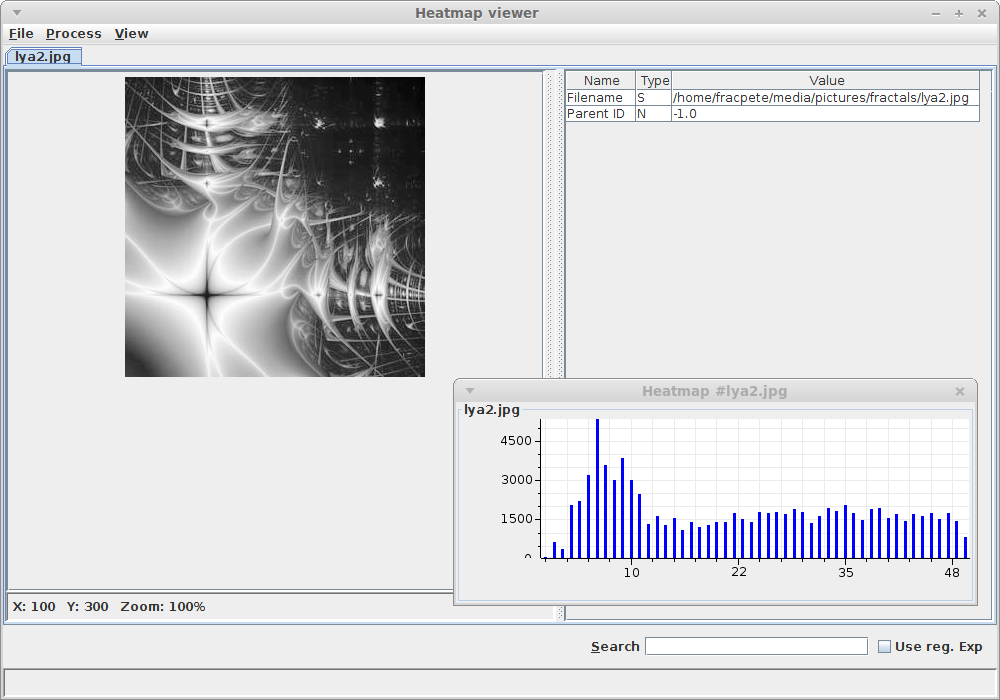
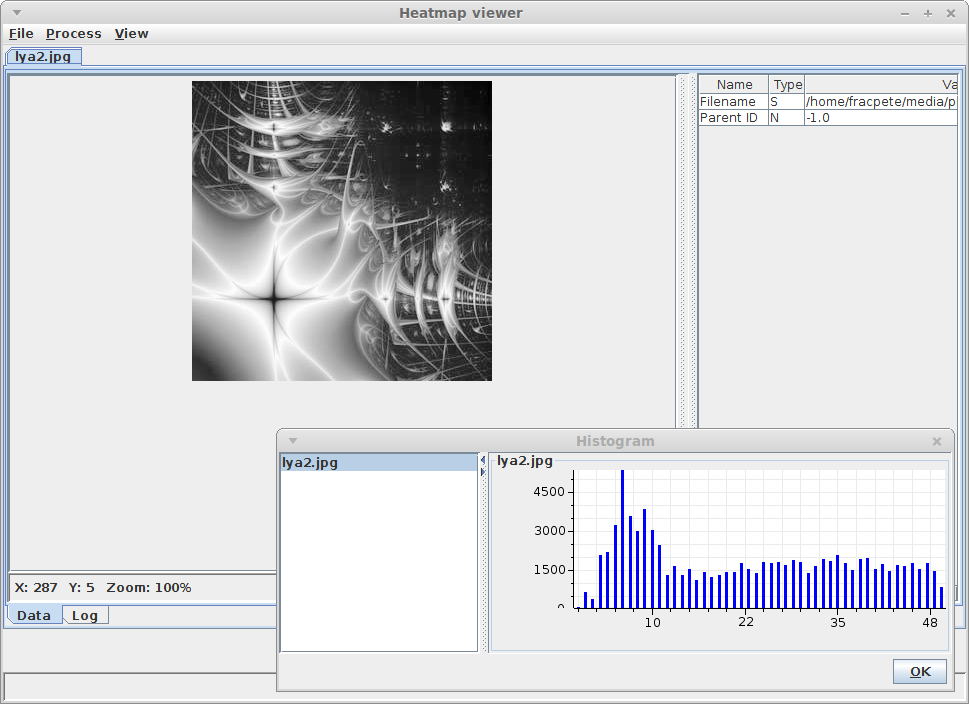
added proper log

Changed region(s): [[0.0, 0.03, 1.0, 0.99], [0.4025, 0.0, 0.5263, 0.03]]

diff --git a/adams-heatmap/src/main/java/adams/gui/visualization/heatmap/HeatmapPanel.java b/adams-heatmap/src/main/java/adams/gui/visualization/heatmap/HeatmapPanel.java
@@ -28,6 +28,7 @@ import adams.data.image.AbstractImageContainer;
 import adams.data.io.input.AbstractHeatmapReader;
 import adams.data.report.Report;
 import adams.data.spreadsheet.SpreadSheet;
+import adams.gui.core.BaseLogPanel;
 import adams.gui.core.BasePanel;
 import adams.gui.core.BaseScrollPane;
 import adams.gui.core.BaseSplitPane;
@@ -81,6 +82,9 @@ public class HeatmapPanel
   /** the search panel for the heatmap report. */
   protected SearchPanel m_SearchPanel;
 
+  /** the tabbed pane for image/report and log. */
+  protected BaseTabbedPane m_LogTabbedPane;
+
   /** the split pane for image/spreadsheet and report. */
   protected BaseSplitPane m_SplitPane;
 
@@ -101,6 +105,9 @@ public class HeatmapPanel
 
   /** the color to use for missing values. */
   protected Color m_MissingValueColor;
+
+  /** the log panel. */
+  protected BaseLogPanel m_PanelLog;
 
   /**
    * Initializes the panel.
@@ -144,9 +151,13 @@ public class HeatmapPanel
 
     setLayout(new BorderLayout());
 
+    m_LogTabbedPane = new BaseTabbedPane();
+    m_LogTabbedPane.setTabPlacement(BaseTabbedPane.BOTTOM);
+    add(m_LogTabbedPane, BorderLayout.CENTER);
+
     m_SplitPane = new BaseSplitPane();
     m_SplitPane.setDividerLocation(props.getInteger("Panel.DividerLocation", 600));
-    add(m_SplitPane, BorderLayout.CENTER);
+    m_LogTabbedPane.addTab("Data", m_SplitPane);
 
     m_HeatmapImage = new ImagePanel();
     m_HeatmapTable = null;
@@ -185,6 +196,11 @@ public class HeatmapPanel
     m_CentroidOverlay.setHeatmapPanel(this);
     m_CentroidOverlay.setEnabled(false);
     m_HeatmapImage.addImageOverlay(m_CentroidOverlay);
+
+    m_PanelLog = new BaseLogPanel();
+    m_PanelLog.setRows(5);
+    m_PanelLog.setColumns(80);
+    m_LogTabbedPane.addTab("Log", m_PanelLog);
   }
 
   /**
@@ -417,6 +433,7 @@ public class HeatmapPanel
 	setHeatmap(maps.get(0));
 	getImagePanel().setScale(scale);
 	reader.cleanUp();
+	log("Reload: " + file);
 	return true;
       }
       reader.cleanUp();
@@ -509,5 +526,14 @@ public class HeatmapPanel
    */
   public double getZoom() {
     return m_HeatmapImage.getScale();
+  }
+
+  /**
+   * Logs the message in the log panel.
+   *
+   * @param msg		the log message
+   */
+  public void log(String msg) {
+    m_PanelLog.append(msg);
   }
 }

diff --git a/adams-heatmap/src/main/java/adams/gui/visualization/heatmap/HeatmapViewerPanel.java b/adams-heatmap/src/main/java/adams/gui/visualization/heatmap/HeatmapViewerPanel.java
@@ -725,6 +725,7 @@ public class HeatmapViewerPanel
             return;
           }
           HeatmapPanel panel = newPanel(maps.get(0));
+	  panel.log("Load: " + file);
           panel.setReader(reader);
           m_TabbedPane.addTab(panel.getTitle(), panel);
 	  m_TabbedPane.setSelectedComponent(panel);
@@ -857,6 +858,7 @@ public class HeatmapViewerPanel
 	  HeatmapPanel panel = getPanelAt(index);
 	  Heatmap filtered = filter.filter(panel.getHeatmap());
 	  filter.cleanUp();
+	  panel.log("Filter: " + filter.toCommandLine());
 	  if (e.getOverlayOriginalData()) {
 	    panel = newPanel(filtered);
 	    m_TabbedPane.addTab(panel.getTitle(), panel);

diff --git a/adams-heatmap/src/main/java/adams/gui/visualization/heatmap/plugins/AbstractHeatmapViewerPlugin.java b/adams-heatmap/src/main/java/adams/gui/visualization/heatmap/plugins/AbstractHeatmapViewerPlugin.java
@@ -19,8 +19,6 @@
  */
 package adams.gui.visualization.heatmap.plugins;
 
-import adams.gui.core.ConsolePanel;
-import adams.gui.core.ConsolePanel.OutputType;
 import adams.gui.plugin.AbstractToolPlugin;
 import adams.gui.visualization.heatmap.HeatmapPanel;
 
@@ -42,6 +40,6 @@ public abstract class AbstractHeatmapViewerPlugin
    * @param msg		the message to log
    */
   protected void doLog(String msg) {
-    ConsolePanel.getSingleton().append(OutputType.INFO, msg);  // TODO in heatmap panel?
+    m_CurrentPanel.log(msg);
   }
 }

diff --git a/adams-heatmap/src/main/java/adams/gui/menu/HeatmapViewer.java b/adams-heatmap/src/main/java/adams/gui/menu/HeatmapViewer.java
@@ -67,7 +67,7 @@ public class HeatmapViewer
    */
   public void launch() {
     adams.gui.visualization.heatmap.HeatmapViewerPanel panel = new adams.gui.visualization.heatmap.HeatmapViewerPanel();
-    createChildFrame(panel, 1000, 700);
+    createChildFrame(panel, 1000, 800);
   }
 
   /**
